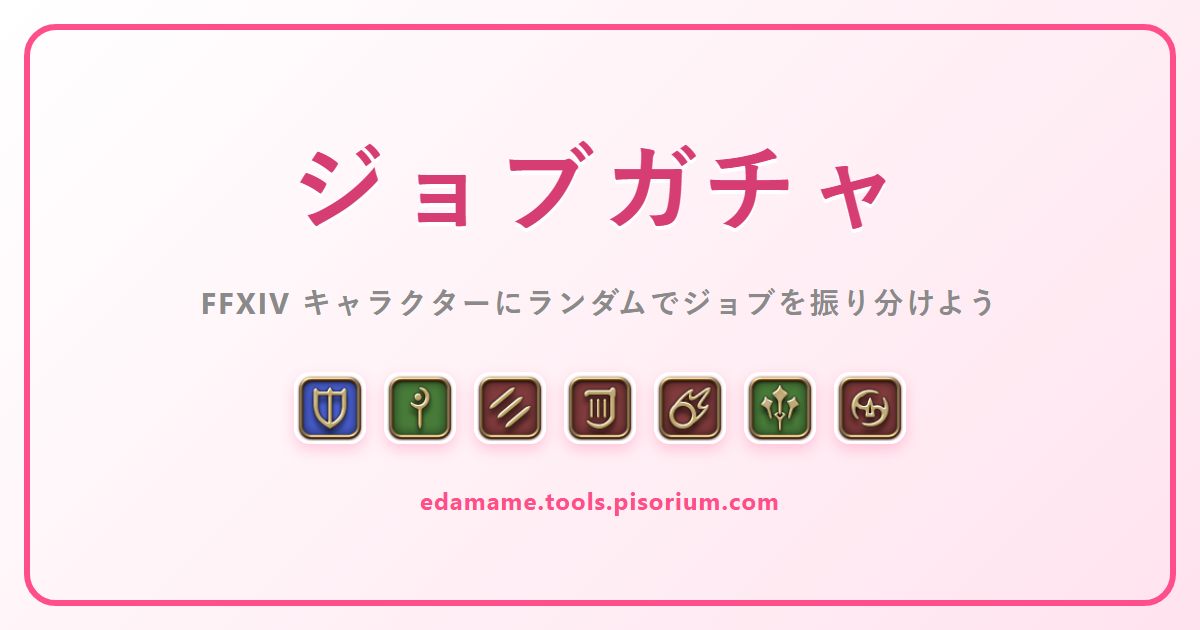
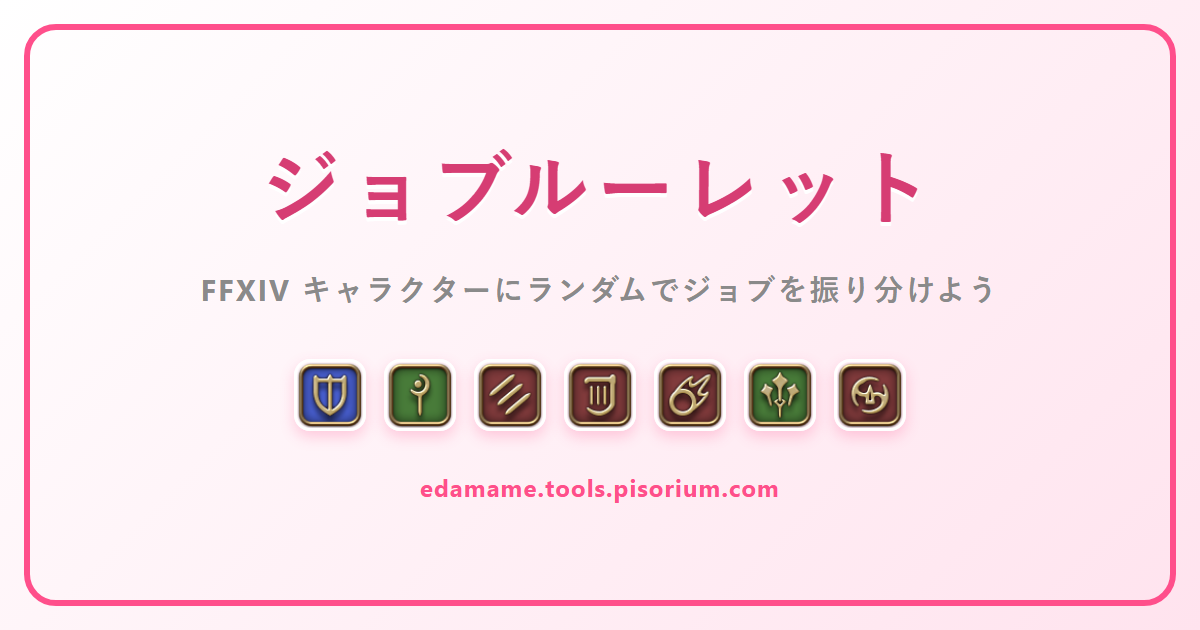
Rename ジョブガチャ to ジョブルーレット (Job Roulette) across the UI
Display name only - the URL path (/job-gacha/), D1 slug, table names,
and API routes are unchanged to avoid a larger migration. Updated:
page title/OGP meta, the i18n app.title and share.headerTitle keys
(ja/en/ko), the regenerated OGP thumbnail, the admin dashboard's
section header, and the tools table's name/name_en/name_ko via a new
migration.

diff --git a/job-gacha/public/js/i18n.js b/job-gacha/public/js/i18n.js
@@ -87,7 +87,7 @@ const I18N = {
     "hub.noTools": "まだツールがありません",
     "hub.loadError": "ツール一覧の読み込みに失敗しました",
 
-    "app.title": "ジョブガチャ",
+    "app.title": "ジョブルーレット",
     "app.hubLink": "← まめツール",
     "level.label": "基準レベル",
     "level.optimalBtn": "全員の最適レベル適用",
@@ -146,7 +146,7 @@ const I18N = {
     "role.dpsRanged": "遠隔物理DPS",
     "role.dpsCaster": "遠隔魔法DPS",
 
-    "share.headerTitle": "ジョブガチャ 抽選結果",
+    "share.headerTitle": "ジョブルーレット 抽選結果",
     "share.footerBrand": "まめツール",
 
     "region.jp": "日本",
@@ -161,7 +161,7 @@ const I18N = {
     "hub.noTools": "No tools yet",
     "hub.loadError": "Failed to load the tool list",
 
-    "app.title": "Job Gacha",
+    "app.title": "Job Roulette",
     "app.hubLink": "← Mame Tools",
     "level.label": "Level Threshold",
     "level.optimalBtn": "Apply Best Level for All",
@@ -220,7 +220,7 @@ const I18N = {
     "role.dpsRanged": "Physical Ranged DPS",
     "role.dpsCaster": "Magical Ranged DPS",
 
-    "share.headerTitle": "Job Gacha Result",
+    "share.headerTitle": "Job Roulette Result",
     "share.footerBrand": "Mame Tools",
 
     "region.jp": "Japan",
@@ -235,7 +235,7 @@ const I18N = {
     "hub.noTools": "아직 도구가 없습니다",
     "hub.loadError": "도구 목록을 불러오지 못했습니다",
 
-    "app.title": "잡 가챠",
+    "app.title": "잡 룰렛",
     "app.hubLink": "← 마메 툴즈",
     "level.label": "기준 레벨",
     "level.optimalBtn": "전원 최적 레벨 적용",
@@ -294,7 +294,7 @@ const I18N = {
     "role.dpsRanged": "물리 원거리 DPS",
     "role.dpsCaster": "마법 원거리 DPS",
 
-    "share.headerTitle": "잡 가챠 결과",
+    "share.headerTitle": "잡 룰렛 결과",
     "share.footerBrand": "마메 툴즈",
 
     "region.jp": "일본",

diff --git a/job-gacha/public/job-gacha/index.html b/job-gacha/public/job-gacha/index.html
@@ -3,18 +3,18 @@
 <head>
 <meta charset="UTF-8">
 <meta name="viewport" content="width=device-width, initial-scale=1.0, maximum-scale=1.0, user-scalable=no">
-<title>ジョブガチャ | FFXIV</title>
+<title>ジョブルーレット | FFXIV</title>
 <meta name="description" content="FFXIVキャラクターにランダムで戦闘ジョブを振り分けるツール">
 
 <meta property="og:type" content="website">
-<meta property="og:title" content="ジョブガチャ | FFXIV">
+<meta property="og:title" content="ジョブルーレット | FFXIV">
 <meta property="og:description" content="FFXIVキャラクターにランダムで戦闘ジョブを振り分けるツール">
 <meta property="og:url" content="https://edamame.tools.pisorium.com/job-gacha/">
 <meta property="og:image" content="https://edamame.tools.pisorium.com/job-gacha/assets/ogp.png">
 <meta property="og:image:width" content="1200">
 <meta property="og:image:height" content="630">
 <meta name="twitter:card" content="summary_large_image">
-<meta name="twitter:title" content="ジョブガチャ | FFXIV">
+<meta name="twitter:title" content="ジョブルーレット | FFXIV">
 <meta name="twitter:description" content="FFXIVキャラクターにランダムで戦闘ジョブを振り分けるツール">
 <meta name="twitter:image" content="https://edamame.tools.pisorium.com/job-gacha/assets/ogp.png">
 
@@ -36,7 +36,7 @@
 
     <div class="header-center">
       <a href="../" class="hub-link" data-i18n="app.hubLink">← まめツール</a>
-      <h1 class="title" data-i18n="app.title">ジョブガチャ</h1>
+      <h1 class="title" data-i18n="app.title">ジョブルーレット</h1>
       <div class="role-icons" id="role-icons"></div>
     </div>
 

diff --git a/job-gacha/public/admin/admin.js b/job-gacha/public/admin/admin.js
@@ -102,7 +102,7 @@ function renderToolsList(tools, key) {
 
 async function renderJobGachaAdminSection(container, key) {
   container.innerHTML = `
-    <h2 class="admin-section-title">🎲 ジョブガチャ</h2>
+    <h2 class="admin-section-title">🎲 ジョブルーレット</h2>
     <p id="jg-draw-count" class="admin-stat">総抽選回数: -</p>
     <button id="jg-reload-draws-btn" type="button" class="btn-mini">再読み込み</button>
     <div id="jg-draws-list" class="admin-draws-list"></div>
